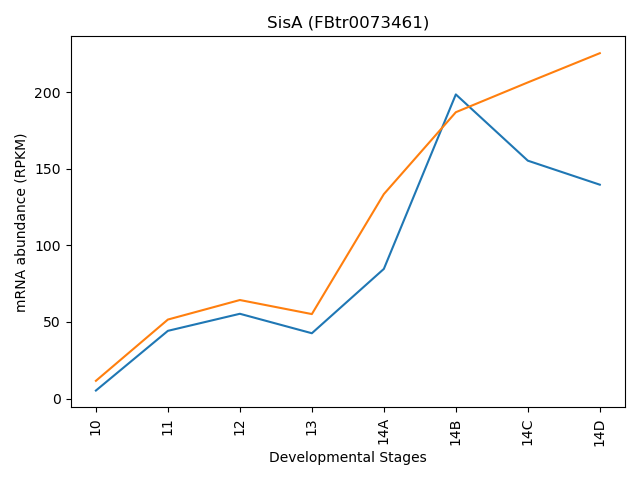
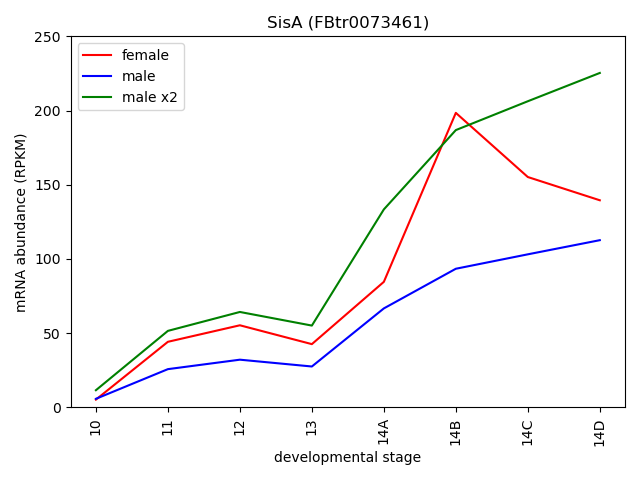
Add answers for day2 homework resubmission

diff --git a/day2-homework/day2HW.py b/day2-homework/day2HW.py
@@ -1,0 +1,61 @@
+#!/usr/bin/env python
+import numpy as np
+import matplotlib.pyplot as plt
+
+# Get dataset to recreate Fig 3B from Lott et al 2011 PLoS Biology https://pubmed.gov/21346796
+# wget https://github.com/bxlab/cmdb-quantbio/raw/main/assignments/lab/bulk_RNA-seq/extra_data/all_annotated.csv
+transcripts = np.loadtxt( "all_annotated.csv", delimiter=",", usecols=0, dtype="<U30", skiprows=1 )
+print( "transcripts: ", transcripts[0:5] )
+samples = np.loadtxt( "all_annotated.csv", delimiter=",", max_rows=1, dtype="<U30" )[2:]
+print( "samples: ", samples[0:5] )
+data = np.loadtxt( "all_annotated.csv", delimiter=",", dtype=np.float32, skiprows=1, usecols=range(2, len(samples) + 2) )
+print( "data: ", data[0:5, 0:5] )
+# Find row with transcript of interest
+for i in range(len(transcripts)):
+    if transcripts[i] == 'FBtr0073461':
+        row = i
+# Iterate through
+# Find row with transcript of interest
+for i in range(len(transcripts)):
+    if transcripts[i] == 'FBtr0073461':
+        row = i
+
+# Find columns with samples of interest
+cols = []
+for i in range(len(samples)):
+    if "female" in samples[i]:
+        cols.append(i)
+
+# Find columns with samples of interest MALE
+colsmale = []
+for i in range(len(samples)):
+    if "male" in samples[i] and "female" not in samples[i]:
+        colsmale.append(i)
+
+# Subset data of interest
+expression = data[row, cols]
+expressionmale = data[row,colsmale]
+
+# Prepare data
+x = [10,11,12,13,"14A","14B","14C","14D"]
+y = expression
+ymale = expressionmale
+ymaledouble = ymale * 2
+
+# Plot data
+fig, ax = plt.subplots()
+ax.set_title( "SisA (FBtr0073461)" )
+
+ax.plot(x, y, c = "red", label = "female" )
+ax.plot(x, ymale, c = "blue", label = "male")
+ax.plot(x, ymaledouble, c = "green", label = "male x2")
+
+ax.set_ylabel("mRNA abundance (RPKM)")
+ax.set_xlabel("Developmental Stage")
+ax.set_ylim(0,250)
+plt.xticks(rotation=90)
+plt.tight_layout()
+plt.legend()
+plt.show()
+fig.savefig( "FBtr0073461.png" )
+plt.close( fig )
